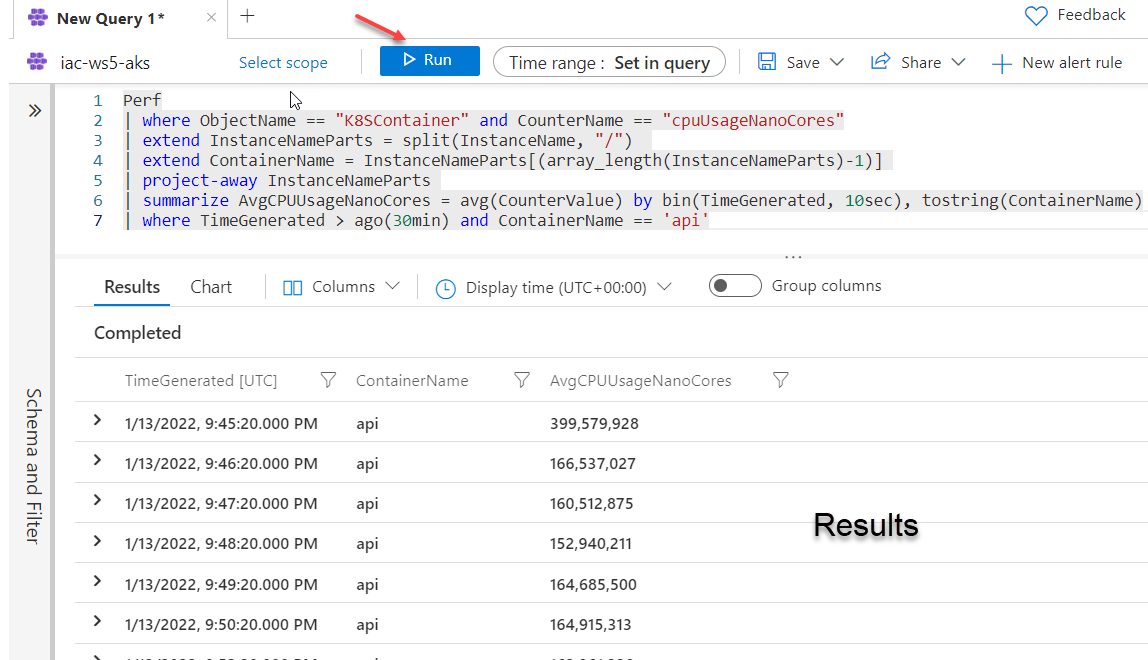
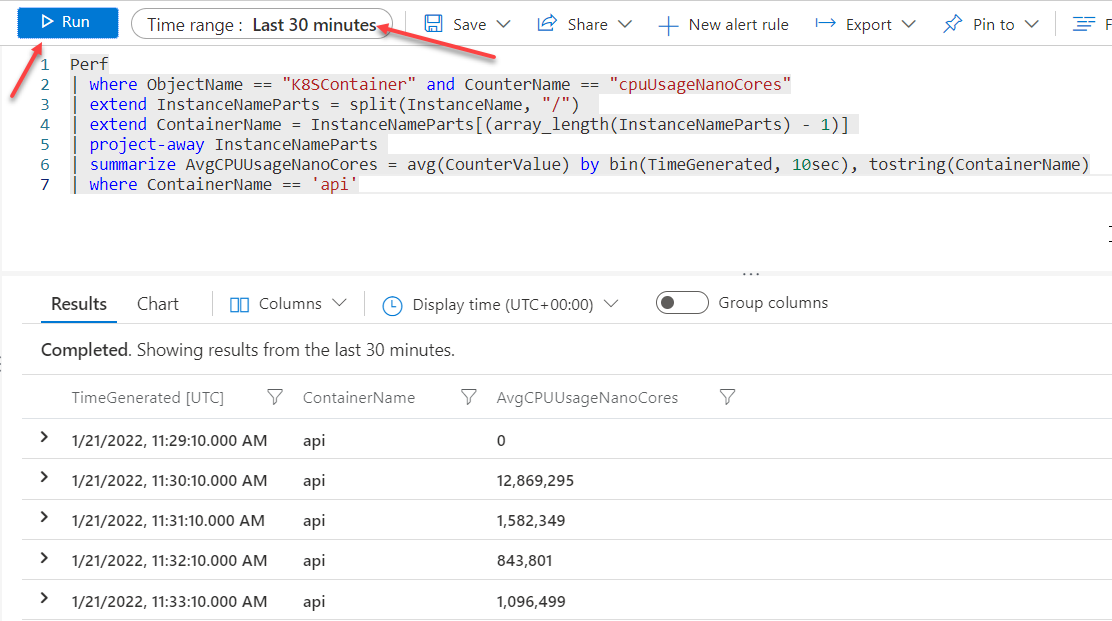
lab-03

Changed region(s): [[0.0, 0.0, 1.0, 1.0], [0.7032, 0.7649, 0.8255, 0.8261]]

diff --git a/05-scaling-options-in-aks/labs/lab-03/readme.md b/05-scaling-options-in-aks/labs/lab-03/readme.md
@@ -26,13 +26,13 @@ Copy the following query and paste it into the Logs query editor (where it says 
 Perf
 | where ObjectName == "K8SContainer" and CounterName == "cpuUsageNanoCores"
 | extend InstanceNameParts = split(InstanceName, "/")  
-| extend ContainerName = InstanceNameParts[(array_length(InstanceNameParts)-1)] 
+| extend ContainerName = InstanceNameParts[(array_length(InstanceNameParts) - 1)] 
 | project-away InstanceNameParts 
 | summarize AvgCPUUsageNanoCores = avg(CounterValue) by bin(TimeGenerated, 10sec), tostring(ContainerName)
-| where TimeGenerated > ago(30min) and ContainerName == 'api'
+| where ContainerName == 'api'
 ```
 
-Click `Run`. You should see something similar.
+Set `Time range` to 30 min and click `Run`. You should see something similar.
 
 ![la-run](images/la-run.png)
 
@@ -47,7 +47,7 @@ Perf
 | where TimeGenerated > ago(30min)
 ```
 
-Expand one of the rows and check the `InstanceName` field. It contains resource id that consists of several parts (like subscription id, resource group name, resource name etc...) separated by `/`. 
+Expand one of the rows and check the `InstanceName` field. It contains resource id that consists of several parts (subscription id, resource group name, resource name etc...) separated by `/`. 
 
 ![la-run1](images/la-run1.png)
 
@@ -64,16 +64,10 @@ The following code
 splits all parts of `InstanceName` string into the `InstanceNameParts` array. Then it extracts the last item from this array into `ContainerName`. The last item of the `InstanceName` when `ObjectName` is "K8SContainer" will be container name. In our case, `guinea-pig` pod only contains one container called `api`, therefore we need to add this condition 
 
 ```sql
-| where ContainerName == 'api' ...
+| where ContainerName == 'api' 
 ```
 
 to filter only metrics coming from our app.
-
-To get logs for the last 30 mins, we use the following condition.
-
-```sql
-... and TimeGenerated > ago(30min) 
-```
 
 We summarize average values of CPU metrics into `AvgCPUUsageNanoCores` field with `10sec` intervals and group data by container name...
 
@@ -84,7 +78,7 @@ We summarize average values of CPU metrics into `AvgCPUUsageNanoCores` field wit
 ```
 ## Task #2 - create a line chart to visualize `guinea-pig` CPU usage
 
-To visualize data, navigate to the `Chart` tab. By default, data will be presented as a `Stacked column`, but you can select other options from `Chart type` drop-down list. 
+To visualize results, navigate to the `Chart` tab and expand `Chart formatting` panel, located at the right part of the window. By default, data will be presented as a `Stacked column`, but you can select other options from `Chart type` drop-down list. 
 
 ![la-chart1](images/la-chart1.png)
 
@@ -92,7 +86,8 @@ In our case, the better representation of the data will be `Line chart`.
 
 ![la-chart2](images/la-chart2.png)
 
-## Task #3 - create an Azure Dashboard with different monitoring metrics
+
+## Task #3 - create an Azure Dashboard for monitoring metrics
 
 The query results and chart will not be auto-refreshed. You need to click `Run` to get new data and you will need to change chart type every time and this is not convenient. To fix that, we can pin chart into `Azure Dashboard`.
 
@@ -120,13 +115,70 @@ Find the one you need, click `Run` and configure line chart. Then click `Pin to`
 
 At the `Pin to dashboard` window, click `Existing` -> `Private`, select dashboard that you just created and click `Pin`.
 
-![la-pin](images/la-pin.png)
+![la-pin2](images/la-pin2.png)
 
 Now, navigate to the dashboard and you should see your pod CPU metrics. 
 
 ![dash4](images/dashboard4.png)
 
-## Task #4 - put some load to the application
+
+Make sure that you set the time range to `Past 30 min` and `Show time as` is set to `Local`.
+
+![dash1](images/dashboard1-1.png)
+
+
+## Task #4 - add CPU % chart to the dashboard
+
+We have now implemented CPU usage by `api` container. It shows how much CPU is used in `NanoCores`. Quite often what we want to see is how much % of defined CPU limits are used. Here is the Kusto query that does it. It's much more complicated, queries data from several tables (`Perf` and `KubePodInventory`). It reads `cpuLimitNanoCores` defined for `api` container, reads the actual `cpuUsageNanoCores` and then calculates the %.
+
+```sql
+let trendBinSize = 30sec;
+let capacityCounterName = 'cpuLimitNanoCores';
+let usageCounterName = 'cpuUsageNanoCores';
+let applicationName = 'guinea-pig';
+KubePodInventory
+| where ControllerKind in ('DaemonSet', 'ReplicaSet')
+| where Namespace in ('default')
+| extend InstanceName = strcat(ClusterId, '/', ContainerName),
+    ContainerName = tostring(split(ContainerName, '/')[1]),
+    PodName = Name
+| where PodStatus in ('Running')
+| where PodName startswith applicationName 
+| distinct Computer, InstanceName, ContainerName
+| join hint.strategy=shuffle (
+    Perf
+    | where ObjectName == 'K8SContainer'
+    | where CounterName == capacityCounterName
+    | summarize LimitValue = max(CounterValue) by Computer, InstanceName, bin(TimeGenerated, trendBinSize)
+    | project
+        Computer,
+        InstanceName,
+        LimitStartTime = TimeGenerated,
+        LimitEndTime = TimeGenerated + trendBinSize,
+        LimitValue,
+        limitA=100
+    )
+    on Computer, InstanceName
+| join kind=inner hint.strategy=shuffle (
+    Perf
+    | where ObjectName == 'K8SContainer'
+    | where CounterName == usageCounterName
+    | project Computer, InstanceName, UsageValue = CounterValue,
+limit=100, TimeGenerated
+) on Computer, InstanceName
+| where TimeGenerated >= LimitStartTime and TimeGenerated < LimitEndTime
+| project ContainerName, TimeGenerated, UsagePercent = UsageValue * 100.0 / LimitValue 
+| summarize AggregatedValue=max(UsagePercent) by bin(TimeGenerated, trendBinSize), ContainerName
+
+```
+
+Now, the same way as we did at `Task #3`, use this query, create line chart and add it into the `iac-ws5-cpu` Dashboard.
+
+When you finish, your dashboard should look something like this.
+
+![dashboard6](images/dashboard6.png)
+
+## Task #5 - put some load to the application
 
 To get some more metrics, let's put some load to our application by running the following command
 
@@ -157,7 +209,11 @@ Now go back to your dashboard and click `Refresh` on the chart.
 
 ![dash5](images/dashboard5.png)
 
-The metrics from AKS are pushed to Log Analytics approx with 2 mins intervals, so be patient and new data will be shown soon.  
+The metrics from AKS are pushed to Log Analytics approx with 2 mins intervals, so be patient and new data will be shown soon :) 
+
+As you can see from the right chart, with the load we put to our application, it now uses 100% of the allocated CPU limits. 
+
+In the next labs we will see how we can fix it.
 
 ## Useful links
 

diff --git a/05-scaling-options-in-aks/readme.md b/05-scaling-options-in-aks/readme.md
@@ -19,8 +19,8 @@ Here is the preliminary agenda for the workshops (still work in progress and sub
  * Scaling applications in AKS concepts (slides)
  * [Lab-02](labs/lab-02/readme.md) - build and deploy test application (xx min)
  * [Lab-03](labs/lab-03/readme.md) - create monitoring dashboard for test application
- * Lab-04 - manually scale applications in AKS
- * Lab-04 - use Horizontal Pod Autoscaling (HPA) to automatically scale applications
+ * [Lab-04](labs/lab-04/readme.md) - manually scale applications in AKS
+ * Lab-05 - use Horizontal Pod Autoscaling (HPA) to automatically scale applications
  * Scaling AKS cluster concepts (slides)
  * Lab-05 - manually scale the node count in an AKS cluster 
  * Lab-06 - use cluster autoscaler to automatically scale an AKS cluster to meet application demands

diff --git a/05-scaling-options-in-aks/labs/lab-04/readme.md b/05-scaling-options-in-aks/labs/lab-04/readme.md
@@ -1,8 +1,7 @@
+# lab-04 - manually scale applications in AKS
 
 
-![aks-insights-1](images/aks-insights1.png)
 
-![aks-insights-1](images/aks-insights2.png)
 
 
 ```bash
@@ -16,4 +15,4 @@ kubectl scale --replicas=3 deployment/guinea-pig
 
 ## Next: manually scale applications in AKS
 
-[Go to lab-04](../lab-04/readme.md)
+[Go to lab-05](../lab-05/readme.md)
